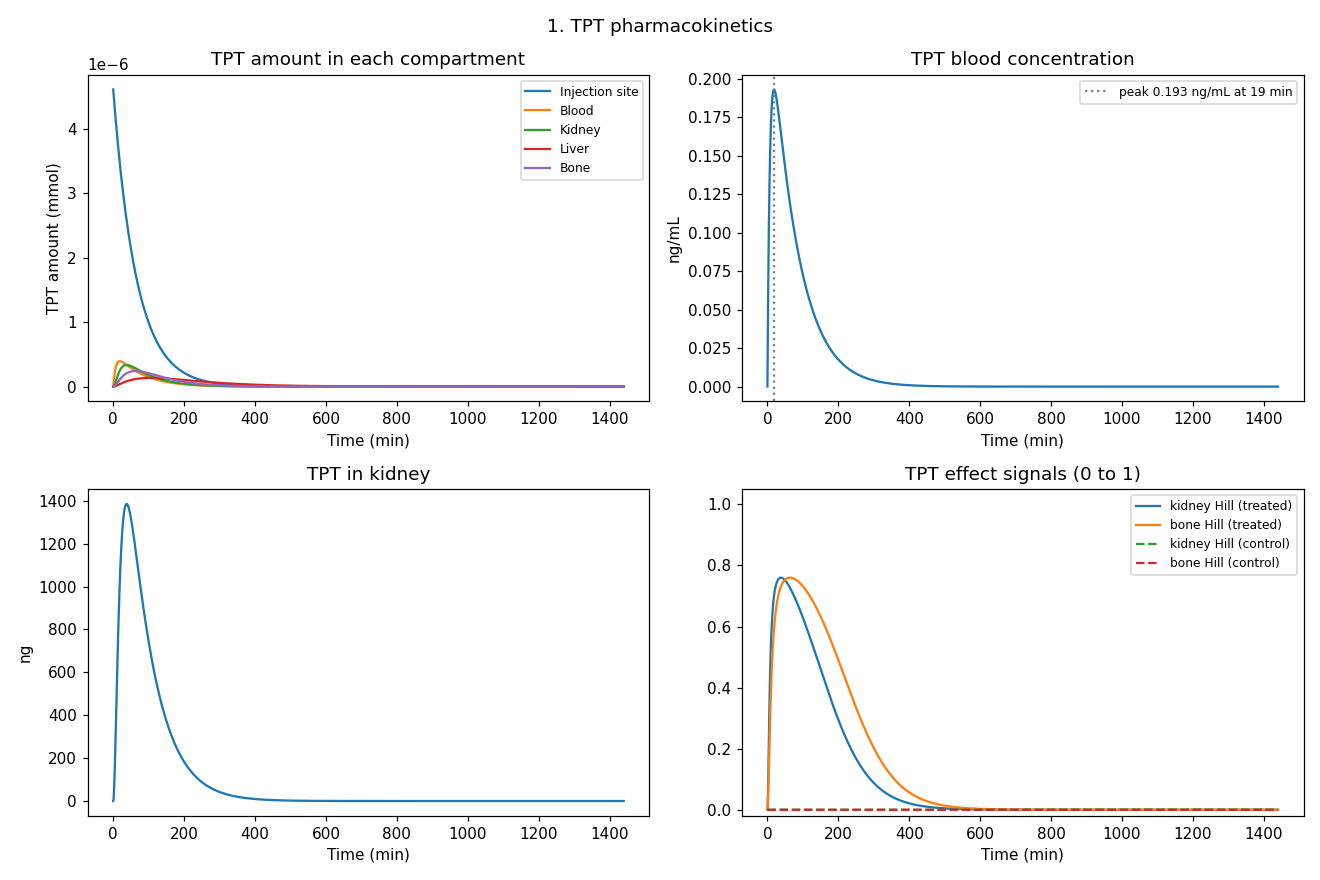
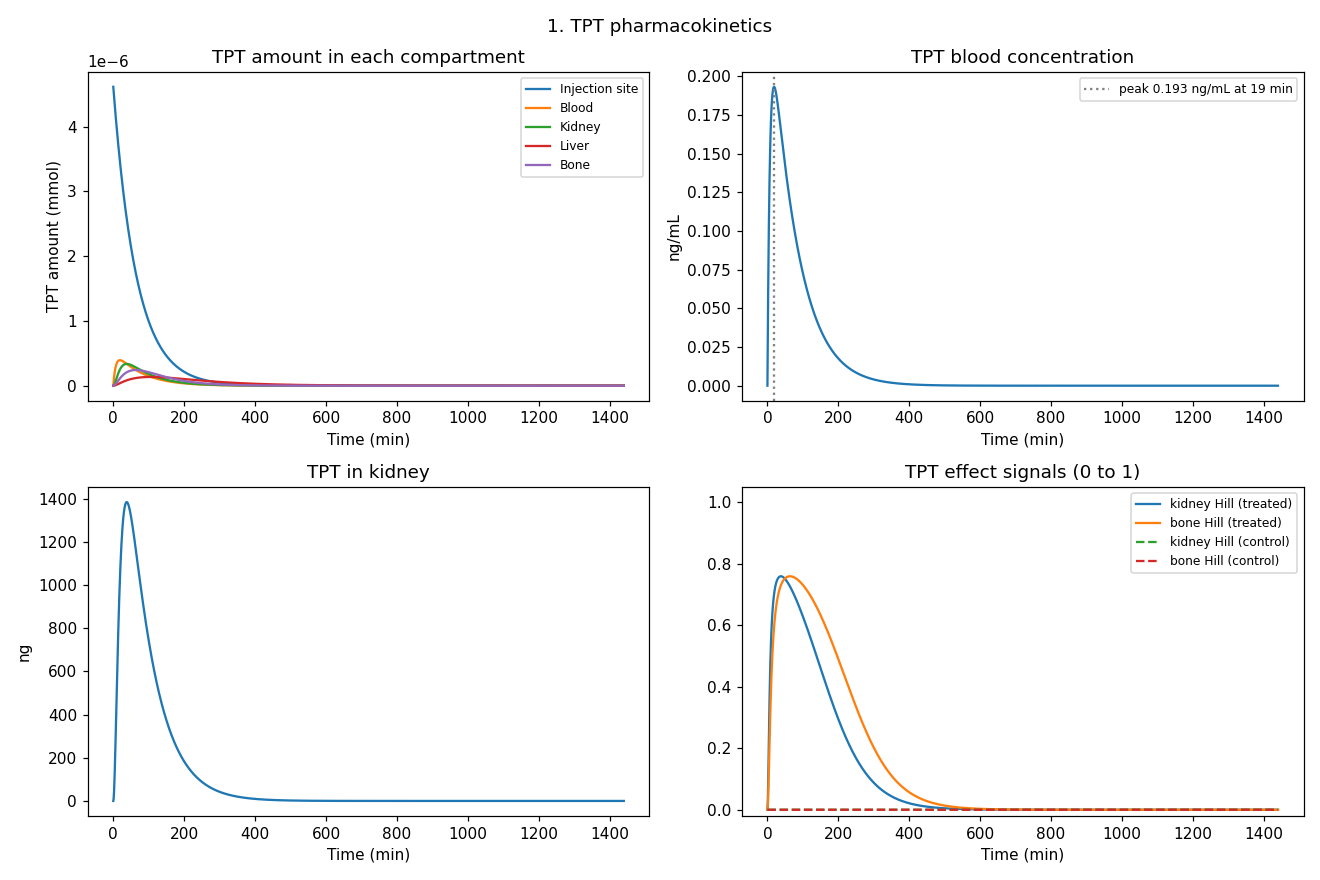
cleaning up code, still need to attach values to sources

diff --git a/Version 2/main.py b/Version 2/main.py
@@ -17,6 +17,9 @@ HOW THE RESULTS ARE READ
 FLAGS FOR YOU: search this file for "ASSUMPTION" and "SWITCH"; they mark every interpretation I had to make.
 """
 
+import importlib
+import math
+
 import numpy as np
 
 np.random.seed(0)  # must come before the parameter imports so the sampled draws repeat
@@ -33,25 +36,56 @@ import calcium
 
 
 osteoporosis = False
-renal_failure = True
+renal_failure =False
 low_estrogen = False
-if osteoporosis is True:
-    calcium.calcitriol_sensitivity= np.random.uniform(0.2, 0.6)
-    calcium.intial_bone_Ca = (1.0e6)*(0.844)    #mg; 1 kg = 1,000,000 mg; bone mass reduced by 15.6% in osteoporosis
-    tpt.k_elimination_TPT = tpt.k_elimination_TPT / 2
-    print("Osteoporosis has no assumed calcitriol parameter changes.")
 
-if renal_failure is True:
-    if calcitriol.basal_calcitriol_produce_kidney is None or calcitriol.half_life is None:
-        raise ValueError("Fill in healthy calcitriol production and half-life first.")
-    tpt.k_diffuse_TPT = tpt.k_diffuse_TPT * 1.73
-    tpt.k_eliminantion_TPT=tpt.k_elimination_TPT*(1.77)
-    calcitriol.basal_calcitriol_produce_kidney *= 14.2 / 31.8
-    calcitriol.half_life /= 0.45 / 0.58
 
-if low_estrogen is True:
-    
-    print("Low estrogen has no assumed calcitriol parameter changes.")
+def apply_conditions():
+    """Apply the disease conditions, then recompute everything the parameter modules derived from the changed values
+    (they compute rates and starting amounts once, at import, so overriding a value alone has no effect).
+    Call once after importing, and again after every importlib.reload (a reload resets the modules)."""
+    if osteoporosis is True:
+        calcium.calcitriol_sensitivity = np.random.uniform(0.2, 0.6)
+        calcium.intial_bone_Ca = (1.0e6) * (0.844)    # mg; 1 kg = 1,000,000 mg; bone mass reduced by 15.6% in osteoporosis
+        tpt.k_elimination_TPT = tpt.k_elimination_TPT / 2
+        print("Osteoporosis has no assumed calcitriol parameter changes.")
+
+    if renal_failure is True:
+        if calcitriol.basal_calcitriol_produce_kidney is None or calcitriol.calcitriol_half_life is None:
+            raise ValueError("Fill in healthy calcitriol production and half-life first.")
+        tpt.k_diffuse_TPT = tpt.k_diffuse_TPT * 1.73
+        tpt.k_elimination_TPT = tpt.k_elimination_TPT * 1.77
+        calcitriol.basal_calcitriol_produce_kidney *= 14.2 / 31.8
+        calcitriol.calcitriol_half_life /= 0.45 / 0.58
+
+    if low_estrogen is True:
+        print("Low estrogen has no assumed calcitriol parameter changes.")
+
+    # --- recompute derived TPT rates (same formulas as tpt.py) ---
+    tpt.k_blood_to_kidney_TPT = tpt.frac_elim_kidney_TPT * tpt.k_elimination_TPT
+    tpt.k_kidney_degrade_TPT = tpt.k_blood_to_kidney_TPT
+    tpt.k_bloodtoliver_TPT = tpt.frac_elim_toliver_TPT * tpt.k_elimination_TPT
+    tpt.k_blood_to_other_tissue = (
+        (1 - tpt.frac_elim_kidney_TPT - tpt.frac_elim_toliver_TPT) * tpt.k_elimination_TPT - tpt.TPT_to_bone_receptor)
+
+    # --- recompute calcitriol degradation and its steady-state starting amounts (same formulas as calcitriol.py) ---
+    c = calcitriol
+    c.k_degrade_calcitriol = math.log(2) / c.calcitriol_half_life * c.total_over_kidney
+    c.Initial_calcitriol_blood = (c.basal_calcitriol_produce_kidney * c.k_kidney_to_blood_calcitriol
+                                  / (c.k_degrade_calcitriol * c.k_blood_to_kidney_calcitriol))
+    c.Initial_calcitriol_kidney = (c.k_blood_to_kidney_calcitriol / c.k_kidney_to_blood_calcitriol) * c.Initial_calcitriol_blood
+    c.initial_calcitriol_liver = (c.k_blood_to_liver_calcitriol / c.K_liver_to_blood_calcitriol) * c.Initial_calcitriol_blood
+    c.initial_calcitriol = [c.Initial_calcitriol_kidney, c.Initial_calcitriol_blood,
+                            c.initial_calcitriol_liver, c.Initial_calcitriol_gut]
+
+    # --- recompute calcium quantities that depend on calcitriol baseline and bone mass ---
+    calcium.calcitriol_basal_level = c.Initial_calcitriol_blood / tpt.Vol_blood_in_bone   # effect = 1 at baseline
+    calcium.k_bone_to_blood_Ca = calcium.k_blood_to_bone_Ca * calcium.initial_blood_Ca / calcium.intial_bone_Ca
+    calcium.initial_calcium = [calcium.initial_intake_Ca, calcium.initial_gut, calcium.initial_blood_Ca,
+                               calcium.initial_kidney_Ca, calcium.intial_bone_Ca]
+
+
+apply_conditions()
 
 # =====================================================================
 # 0. SETTINGS  (the only things you should need to change here)
@@ -262,6 +296,7 @@ def calcium_model(t, amounts, TPT_kidney_at, TPT_bone_at, calcitriol_blood_at, H
     d_blood = (
         k["gut_abs"] * gut + k["kidney_reabs"] * kidney + k["bone_release"] * bone
         - (calcium.k_blood_kidney_Ca + calcium.k_blood_to_bone_Ca) * blood
+        - calcium.k_Ca_feedback * (blood - calcium.initial_blood_Ca)   # homeostasis: extra urine loss of EXCESS Ca
     )
     # Kidney: + from blood, - reabsorbed to blood, - lost in urine.
     d_kidney = calcium.k_blood_kidney_Ca * blood - (k["kidney_reabs"] + k["urine"]) * kidney
@@ -525,6 +560,7 @@ def run_monte_carlo():
     np.random.seed(0)
     for module in (tpt, calcitriol, calcium):
         importlib.reload(module)
+    apply_conditions()                               # a reload resets the modules, so re-apply the conditions
     DOSE_SCALE = 1.0
     nominal = run_simulation()
     fixed = dict(H=nominal["H"], k_increase=nominal["k_increase"], ca_scale=nominal["ca_scale"])
@@ -534,6 +570,7 @@ def run_monte_carlo():
         np.random.seed(run + 1)                      # draw number = seed - 1, so any run can be repeated
         for module in (tpt, calcitriol, calcium):    # re-import = new random draws
             importlib.reload(module)
+        apply_conditions()
         try:
             for name, dose_scale in SCENARIOS.items():
                 DOSE_SCALE = dose_scale
